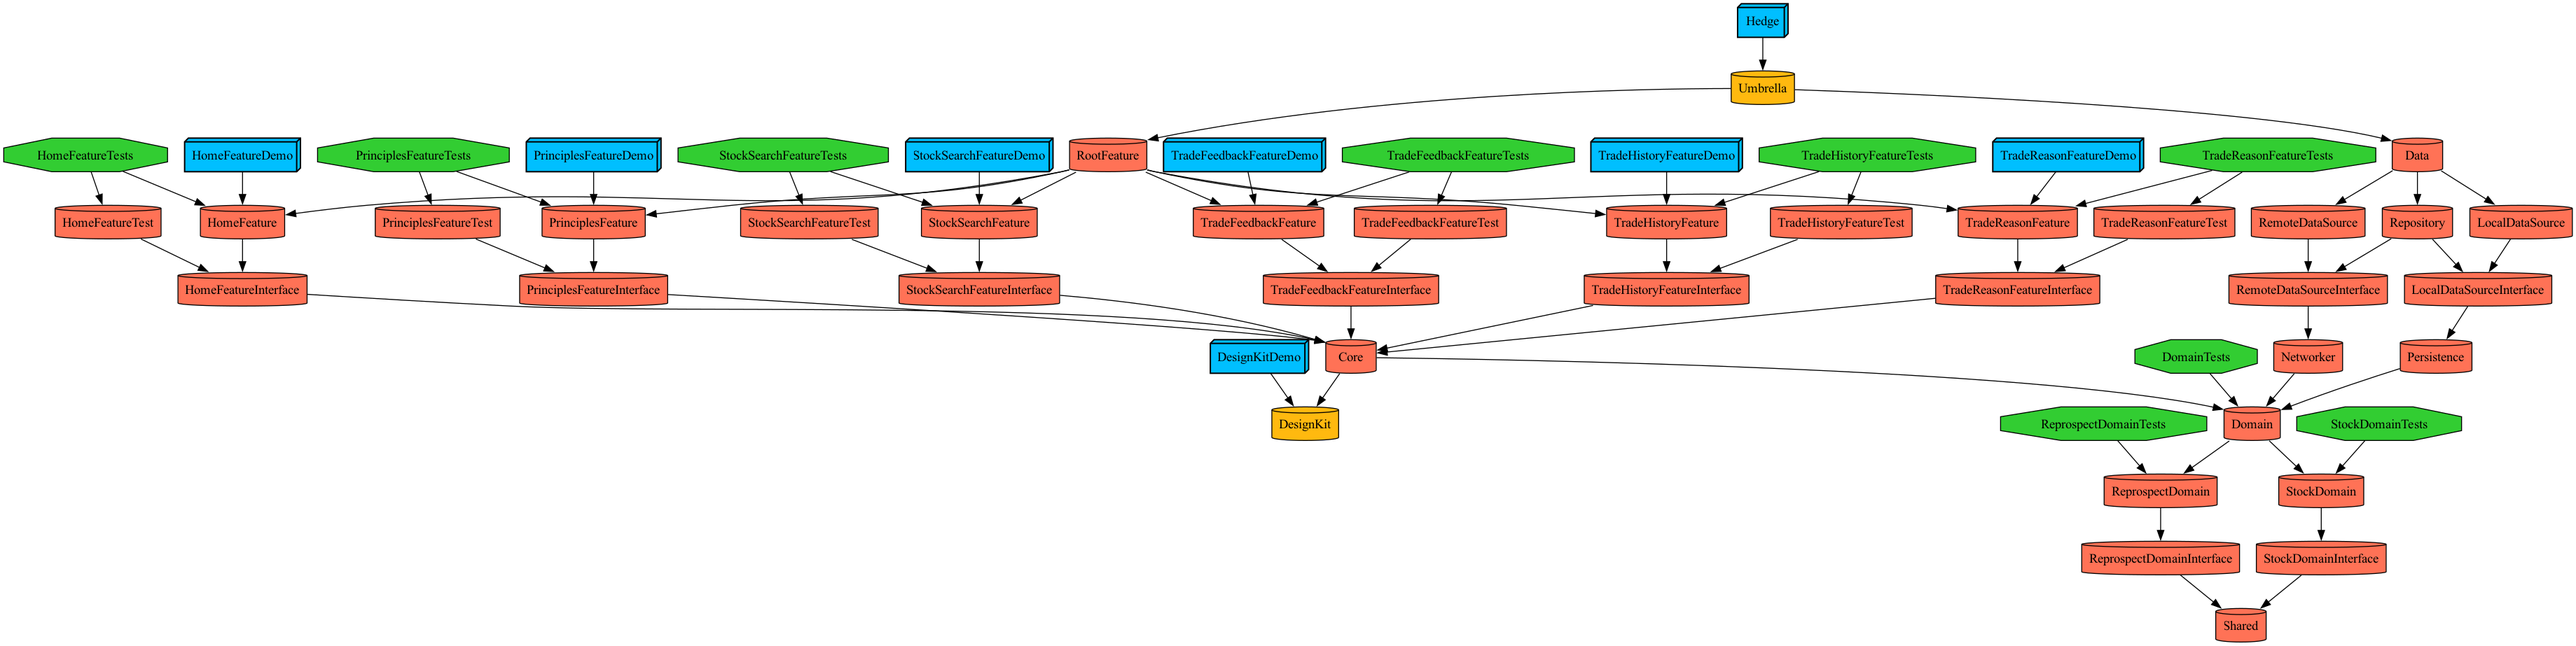
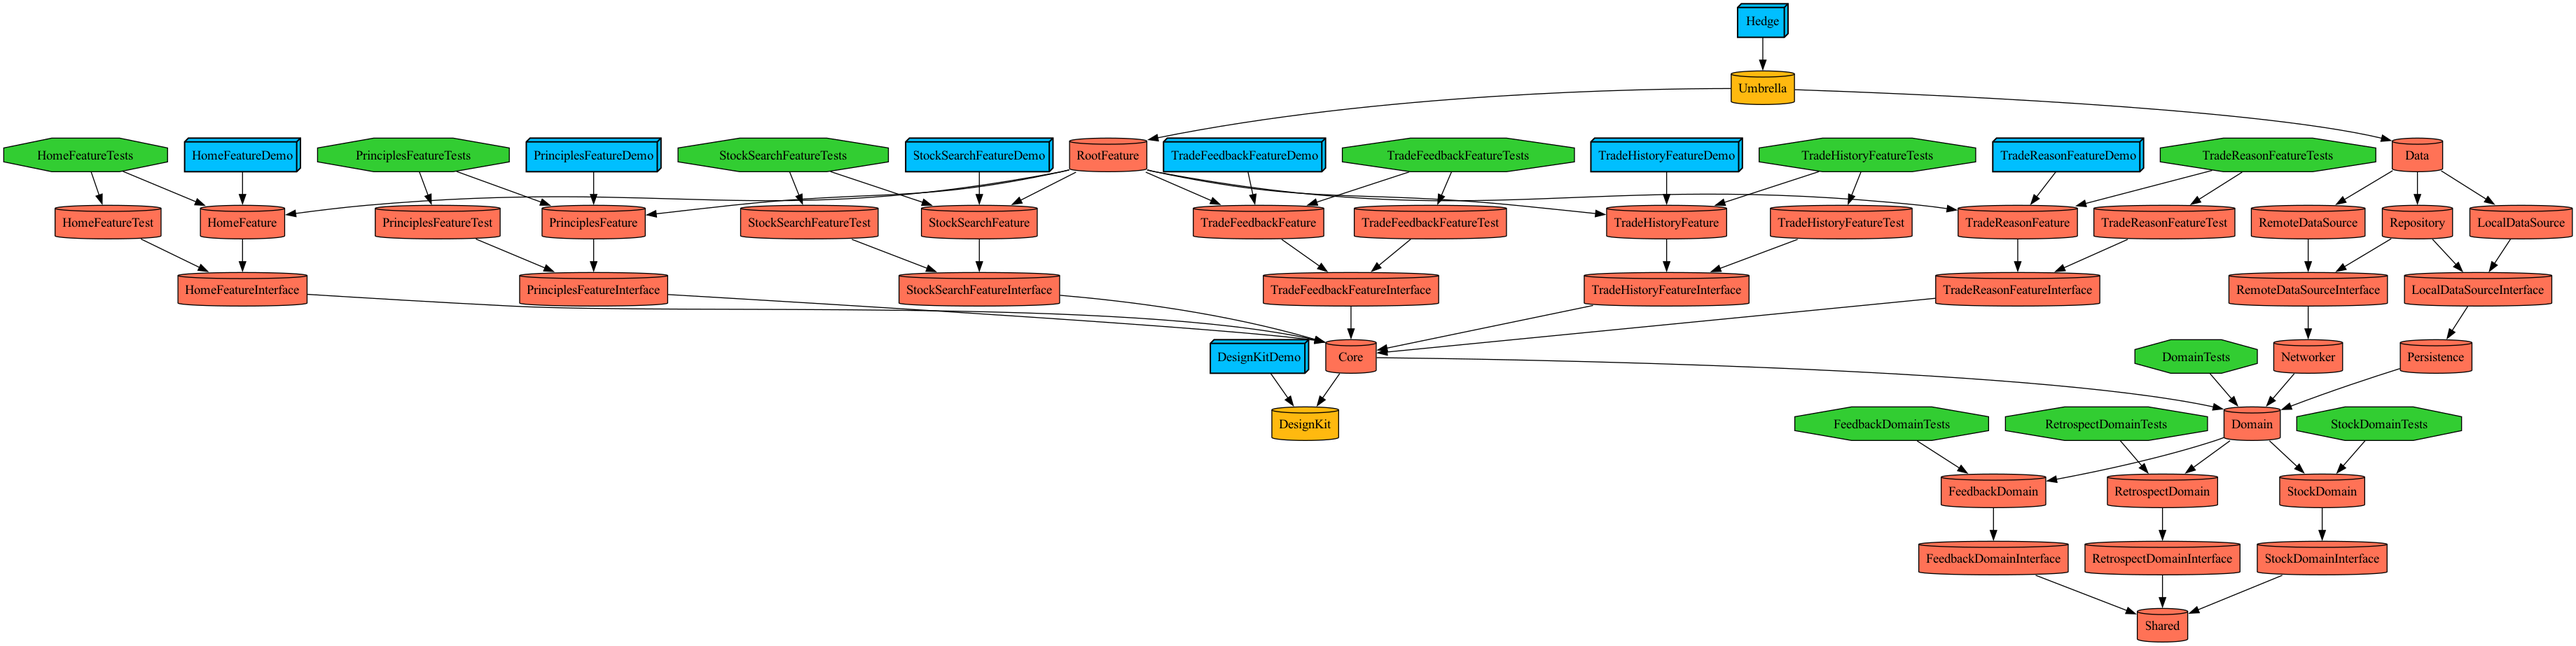
feat. 작업

diff --git a/Hedge/Projects/Features/TradeFeedbackFeature/Interface/Sources/Feature/TradeFeedbackFeature.swift b/Hedge/Projects/Features/TradeFeedbackFeature/Interface/Sources/Feature/TradeFeedbackFeature.swift
@@ -14,13 +14,19 @@ import Core
 import Shared
 
 import StockDomainInterface
+import FeedbackDomainInterface
 
 @Reducer
 public struct TradeFeedbackFeature {
     private let coordinator: TradeFeedbackCoordinator
+    private let fetchFeedbackUseCase: FetchFeedbackUseCase
     
-    public init(coordinator: TradeFeedbackCoordinator) {
+    public init(
+        coordinator: TradeFeedbackCoordinator,
+        fetchFeedbackUseCase: FetchFeedbackUseCase
+    ) {
         self.coordinator = coordinator
+        self.fetchFeedbackUseCase = fetchFeedbackUseCase
     }
     
     @ObservableState
@@ -48,9 +54,11 @@ public struct TradeFeedbackFeature {
         case nextTapped
     }
     public enum InnerAction {
+        case fetchFeedbackSuccess(FeedbackData)
+        case fetchFeedbackFailure(Error)
     }
     public enum AsyncAction {
-        
+        case fetchFeedback(Int)
     }
     public enum ScopeAction { }
     public enum DelegateAction { }
@@ -97,7 +105,7 @@ extension TradeFeedbackFeature {
         switch action {
         case .onAppear:
             Log.debug("\(state.tradeData)")
-            return .none
+            return .send(.async(.fetchFeedback(state.tradeData.id)))
             
         case .backButtonTapped:
             return .none
@@ -112,7 +120,15 @@ extension TradeFeedbackFeature {
         _ state: inout State,
         _ action: InnerAction
     ) -> Effect<Action> {
-        
+        switch action {
+        case .fetchFeedbackSuccess(let response):
+            Log.debug("\(response)")
+            return .none
+            
+        case .fetchFeedbackFailure(let error):
+            Log.debug(error.localizedDescription)
+            return .none
+        }
     }
     
     // MARK: - Async Core
@@ -120,7 +136,17 @@ extension TradeFeedbackFeature {
         _ state: inout State,
         _ action: AsyncAction
     ) -> Effect<Action> {
-        
+        switch action {
+        case .fetchFeedback(let id):
+            return .run { send in
+                do {
+                    let response = try await fetchFeedbackUseCase.execute(id: id)
+                    await send(.inner(.fetchFeedbackSuccess(response)))
+                } catch {
+                    await send(.inner(.fetchFeedbackFailure(error)))
+                }
+            }
+        }
     }
     
     // MARK: - Scope Core

diff --git a/Hedge/Projects/Features/TradeFeedbackFeature/Sources/Presentaition/TradeFeedbackView.swift b/Hedge/Projects/Features/TradeFeedbackFeature/Sources/Presentaition/TradeFeedbackView.swift
@@ -528,10 +528,10 @@ extension View {
     }
 }
 
-#Preview {
-    let tradeData = TradeData(id: 1, tradeType: .sell, stockSymbol: "", stockTitle: "삼성전자", stockMarket: "SAMSUNG", tradingPrice: "70,000", tradingQuantity: "10", tradingDate: "2025년 10월 25일", yield: "+10%", emotion: .impulse, tradePrinciple: ["1", "2", "3"], retrospection: "가나다라 회고 작성했습니다.가나다라 회고 작성했습니다.가나다라 회고 작성했습니다.가나다라 회고 작성했습니다.가나다라 회고 작성했습니다.가나다라 회고 작성했습니다.가나다라 회고 작성했습니다.가나다라 회고 작성했습니다.가나다라 회고 작성123했습니다.가나다라 회고 작성했습니다.가나다라 회고 작성했습니다.")
-    
-    TradeFeedbackView(store: .init(initialState: TradeFeedbackFeature.State(tradeData: tradeData),
-                                   reducer: { TradeFeedbackFeature(coordinator: DefaultTradeHFeedbackCoordinator(navigationController: UINavigationController(), tradeData: tradeData))
-    }))
-}
+//#Preview {
+//    let tradeData = TradeData(id: 1, tradeType: .sell, stockSymbol: "", stockTitle: "삼성전자", stockMarket: "SAMSUNG", tradingPrice: "70,000", tradingQuantity: "10", tradingDate: "2025년 10월 25일", yield: "+10%", emotion: .impulse, tradePrinciple: ["1", "2", "3"], retrospection: "가나다라 회고 작성했습니다.가나다라 회고 작성했습니다.가나다라 회고 작성했습니다.가나다라 회고 작성했습니다.가나다라 회고 작성했습니다.가나다라 회고 작성했습니다.가나다라 회고 작성했습니다.가나다라 회고 작성했습니다.가나다라 회고 작성123했습니다.가나다라 회고 작성했습니다.가나다라 회고 작성했습니다.")
+//    
+//    TradeFeedbackView(store: .init(initialState: TradeFeedbackFeature.State(tradeData: tradeData),
+//                                   reducer: { TradeFeedbackFeature(coordinator: DefaultTradeHFeedbackCoordinator(navigationController: UINavigationController(), tradeData: tradeData))
+//    }))
+//}

diff --git a/Hedge/Projects/Features/TradeFeedbackFeature/Sources/Coordinator/DefaultTradeHFeedbackCoordinator.swift b/Hedge/Projects/Features/TradeFeedbackFeature/Sources/Coordinator/DefaultTradeHFeedbackCoordinator.swift
@@ -2,8 +2,10 @@ import UIKit
 import SwiftUI
 
 import Core
+import Shared
 import StockDomainInterface
 import TradeFeedbackFeatureInterface
+import FeedbackDomainInterface
 
 public final class DefaultTradeHFeedbackCoordinator: TradeFeedbackCoordinator {
     public var navigationController: UINavigationController
@@ -11,6 +13,7 @@ public final class DefaultTradeHFeedbackCoordinator: TradeFeedbackCoordinator {
     public var childCoordinators: [Coordinator] = []
     public var parentCoordinator: RootCoordinator?
     public let tradeData: TradeData
+    private let fetchFeedbackUseCase = DIContainer.resolve(FetchFeedbackUseCase.self)
     
     public init(
         navigationController: UINavigationController,
@@ -22,11 +25,17 @@ public final class DefaultTradeHFeedbackCoordinator: TradeFeedbackCoordinator {
     
     public func start() {
         let viewController = UIHostingController(
-            rootView: TradeFeedbackView(store:
-                    .init(initialState: TradeFeedbackFeature.State(tradeData: tradeData),
-                          reducer: {
-                              TradeFeedbackFeature(coordinator: self)
-                          }))
+            rootView: TradeFeedbackView(
+                store: .init(
+                    initialState: TradeFeedbackFeature.State(tradeData: tradeData),
+                    reducer: {
+                        TradeFeedbackFeature(
+                            coordinator: self,
+                            fetchFeedbackUseCase: fetchFeedbackUseCase
+                        )
+                    }
+                )
+            )
         )
         
         navigationController.pushViewController(viewController, animated: true)

diff --git a/Hedge/Projects/Data/RemoteDataSource/Sources/DefaultFeedbackDataSource.swift b/Hedge/Projects/Data/RemoteDataSource/Sources/DefaultFeedbackDataSource.swift
@@ -1,0 +1,66 @@
+//
+//  DefaultFeedbackDataSource.swift
+//  RemoteDataSourceInterface
+//
+//  Created by Junyoung on 9/26/25.
+//  Copyright © 2025 HedgeCompany. All rights reserved.
+//
+
+import Alamofire
+
+import Networker
+import RemoteDataSourceInterface
+
+public struct DefaultFeedbackDataSource: FeedbackDataSource {
+    private let provider: Provider
+    
+    public init() {
+        self.provider = Provider.plain
+    }
+    
+    public func fetch(id: Int) async throws -> FeedbackResponseDTO {
+        try await provider.request(FeedbackTarget.fetch(id))
+    }
+}
+
+enum FeedbackTarget {
+    case fetch(_ id: Int)
+}
+
+extension FeedbackTarget: TargetType {
+    var baseURL: String {
+        return Configuration.baseURL + "/api/v1/reports"
+    }
+    
+    var header: Alamofire.HTTPHeaders {
+        return [:]
+    }
+    
+    var method: Alamofire.HTTPMethod {
+        switch self {
+        case .fetch:
+            return .post
+        }
+    }
+    
+    var path: String {
+        switch self {
+        case .fetch(let id):
+            return "/\(id)/feedback"
+        }
+    }
+    
+    var parameters: Networker.RequestParams? {
+        switch self {
+        case .fetch(let request):
+            return .none
+        }
+    }
+    
+    var encoding: any Alamofire.ParameterEncoding {
+        switch self {
+        case .fetch:
+            return makeEncoder(contentType: .json)
+        }
+    }
+}

diff --git a/Hedge/Projects/Data/RemoteDataSource/Interface/Sources/DTO/Response/FeedbackResponseDTO.swift b/Hedge/Projects/Data/RemoteDataSource/Interface/Sources/DTO/Response/FeedbackResponseDTO.swift
@@ -1,0 +1,47 @@
+//
+//  FeedbackResponseDTO.swift
+//  RemoteDataSourceInterface
+//
+//  Created by Junyoung on 9/26/25.
+//  Copyright © 2025 HedgeCompany. All rights reserved.
+//
+
+import Foundation
+
+import FeedbackDomainInterface
+
+// MARK: - FeedbackResponseDTO
+public struct FeedbackResponseDTO: Decodable {
+    public let code: String
+    public let message: String
+    public let data: FeedbackDataResponseDTO
+    
+    private enum CodingKeys: String, CodingKey {
+        case code
+        case message
+        case data
+    }
+}
+
+// MARK: - FeedbackDataDTO
+public struct FeedbackDataResponseDTO: Decodable {
+    public let summary: String
+    public let marketCondition: String
+    public let aiRecommendedPrinciples: [String: String]
+    
+    private enum CodingKeys: String, CodingKey {
+        case summary = "요약 한 마디"
+        case marketCondition = "당시 시장 현황"
+        case aiRecommendedPrinciples = "AI 추천 원칙"
+    }
+}
+
+extension FeedbackDataResponseDTO {
+    public func toDomain() -> FeedbackData {
+        return FeedbackData(
+            summary: summary,
+            marketCondition: marketCondition,
+            aiRecommendedPrinciples: aiRecommendedPrinciples
+        )
+    }
+}

diff --git a/Hedge/Projects/Umbrella/Sources/Assembly/DomainAssembly.swift b/Hedge/Projects/Umbrella/Sources/Assembly/DomainAssembly.swift
@@ -14,6 +14,8 @@ import StockDomainInterface
 import StockDomain
 import RetrospectDomainInterface
 import RetrospectDomain
+import FeedbackDomainInterface
+import FeedbackDomain
 
 public struct DomainAssembly: Assembly {
     public init() {}
@@ -33,6 +35,14 @@ public struct DomainAssembly: Assembly {
             }
             
             return GenerateRetrospect(retrospectRepository: repository)
+        }
+        
+        container.register(FetchFeedbackUseCase.self) { resolver in
+            guard let repository = resolver.resolve(FeedbackRepository.self) else {
+                fatalError("Could not resolve StockRepository")
+            }
+            
+            return FetchFeedback(feedbackRepository: repository)
         }
     }
 }

diff --git a/Hedge/Projects/Umbrella/Sources/Assembly/DataAssembly.swift b/Hedge/Projects/Umbrella/Sources/Assembly/DataAssembly.swift
@@ -15,6 +15,7 @@ import RemoteDataSource
 import Repository
 import StockDomainInterface
 import RetrospectDomainInterface
+import FeedbackDomainInterface
 
 public struct DataAssembly: Assembly {
     public init() {}
@@ -30,6 +31,12 @@ public struct DataAssembly: Assembly {
         container.register(RetrospectRepository.self) { _ in
             DefaultRetrospectRepository(
                 dataSource: DefaultRetrospectDataSource()
+            )
+        }
+        
+        container.register(FeedbackRepository.self) { _ in
+            DefaultFeedbackRepository(
+                dataSource: DefaultFeedbackDataSource()
             )
         }
     }

diff --git a/Hedge/Projects/Domains/FeedbackDomain/Interface/Sources/Entity/FeedbackData.swift b/Hedge/Projects/Domains/FeedbackDomain/Interface/Sources/Entity/FeedbackData.swift
@@ -1,0 +1,25 @@
+//
+//  FeedbackData.swift
+//  FeedbackDomain
+//
+//  Created by Junyoung on 9/26/25.
+//  Copyright © 2025 HedgeCompany. All rights reserved.
+//
+
+import Foundation
+
+public struct FeedbackData {
+    public let summary: String
+    public let marketCondition: String
+    public let aiRecommendedPrinciples: [String: String]
+    
+    public init(
+        summary: String,
+        marketCondition: String,
+        aiRecommendedPrinciples: [String : String]
+    ) {
+        self.summary = summary
+        self.marketCondition = marketCondition
+        self.aiRecommendedPrinciples = aiRecommendedPrinciples
+    }
+}

diff --git a/Hedge/Projects/Domains/FeedbackDomain/Sources/FetchFeedback.swift b/Hedge/Projects/Domains/FeedbackDomain/Sources/FetchFeedback.swift
@@ -1,0 +1,23 @@
+//
+//  FetchFeedback.swift
+//  FeedbackDomain
+//
+//  Created by Junyoung on 9/26/25.
+//  Copyright © 2025 HedgeCompany. All rights reserved.
+//
+
+import Foundation
+
+import FeedbackDomainInterface
+
+public struct FetchFeedback: FetchFeedbackUseCase {
+    private let feedbackRepository: FeedbackRepository
+    
+    public init(feedbackRepository: FeedbackRepository) {
+        self.feedbackRepository = feedbackRepository
+    }
+    
+    public func execute(id: Int) async throws -> FeedbackDomainInterface.FeedbackData {
+        try await feedbackRepository.fetch(id: id)
+    }
+}

diff --git a/Hedge/Projects/Data/Repository/Sources/Feedback/FeedbackRepository.swift b/Hedge/Projects/Data/Repository/Sources/Feedback/FeedbackRepository.swift
@@ -1,0 +1,22 @@
+//
+//  FeedbackRepository.swift
+//  Repository
+//
+//  Created by Junyoung on 9/26/25.
+//  Copyright © 2025 HedgeCompany. All rights reserved.
+//
+
+import FeedbackDomainInterface
+import RemoteDataSourceInterface
+
+public struct DefaultFeedbackRepository: FeedbackRepository {
+    private let dataSource: FeedbackDataSource
+    
+    public init(dataSource: FeedbackDataSource) {
+        self.dataSource = dataSource
+    }
+    
+    public func fetch(id: Int) async throws -> FeedbackData {
+        try await dataSource.fetch(id: id).data.toDomain()
+    }
+}

diff --git a/Hedge/Tuist/ProjectDescriptionHelpers/Extension/Dependency+Domain.swift b/Hedge/Tuist/ProjectDescriptionHelpers/Extension/Dependency+Domain.swift
@@ -19,4 +19,10 @@ public extension TargetDependency.Domain {
         public static let implement = domainDependency(target: name)
         public static let interface = domainInterfaceDependency(target: name)
     }
+
+    struct Feedback {
+        private static let name = "FeedbackDomain"
+        public static let implement = domainDependency(target: name)
+        public static let interface = domainInterfaceDependency(target: name)
+    }
 }

diff --git a/Hedge/Projects/Data/RemoteDataSource/Interface/Sources/Interface/FeedbackDataSource.swift b/Hedge/Projects/Data/RemoteDataSource/Interface/Sources/Interface/FeedbackDataSource.swift
@@ -1,0 +1,13 @@
+//
+//  FeedbackDataSource.swift
+//  RemoteDataSourceInterface
+//
+//  Created by Junyoung on 9/26/25.
+//  Copyright © 2025 HedgeCompany. All rights reserved.
+//
+
+import Foundation
+
+public protocol FeedbackDataSource {
+    func fetch(id: Int) async throws -> FeedbackResponseDTO
+}
